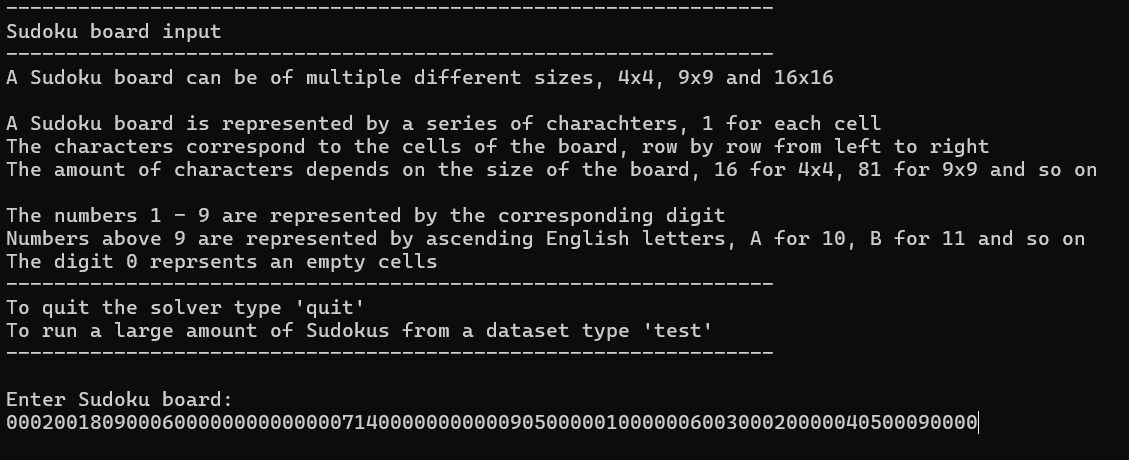
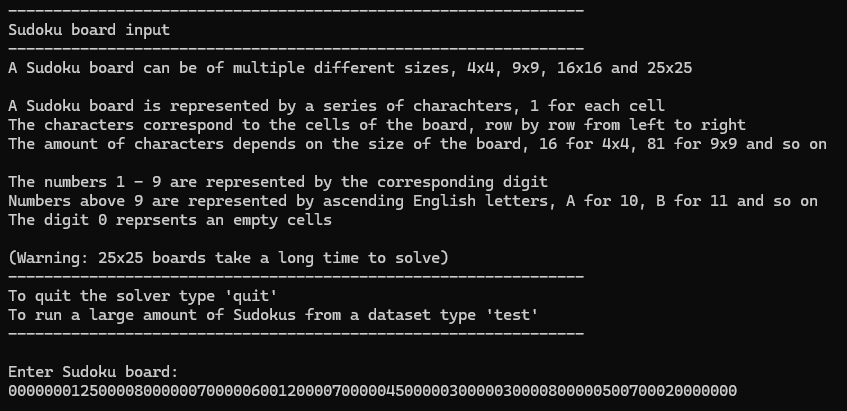
Added 25x25 to readme

diff --git a/README.md b/README.md
@@ -9,7 +9,7 @@ When opening the program, you will be presented a console screen with instructio
 ### Solving a single board
 ---
 
-The application can solve Sudoku boards ranging in size from 4x4 to 16x16.
+The application can solve Sudoku boards ranging in size from 4x4 to 25x25.
 To solve a single Sudoku board, simply enter the Sudoku board in the correct format. The correct format for a Sudoku board is a sequence of characters matching the size of the board, so that each character represents a cell on the board, so for a 4x4 board that would be 16 characters for 16 cells, for a 9x9 board it would be 81 characters for 81 cells, and so on. The characters represent cells in order, row by row from left to right and from top to bottom. Cells with numbers from 1 to 9 are represented by their corresponding digit character, whille numbers above 9 are represented by English letters ('A' for 10, 'B' for 11, 'C' for 12 and so on). Empty cells are represented by zeros.
 
 The main interface of the application:
